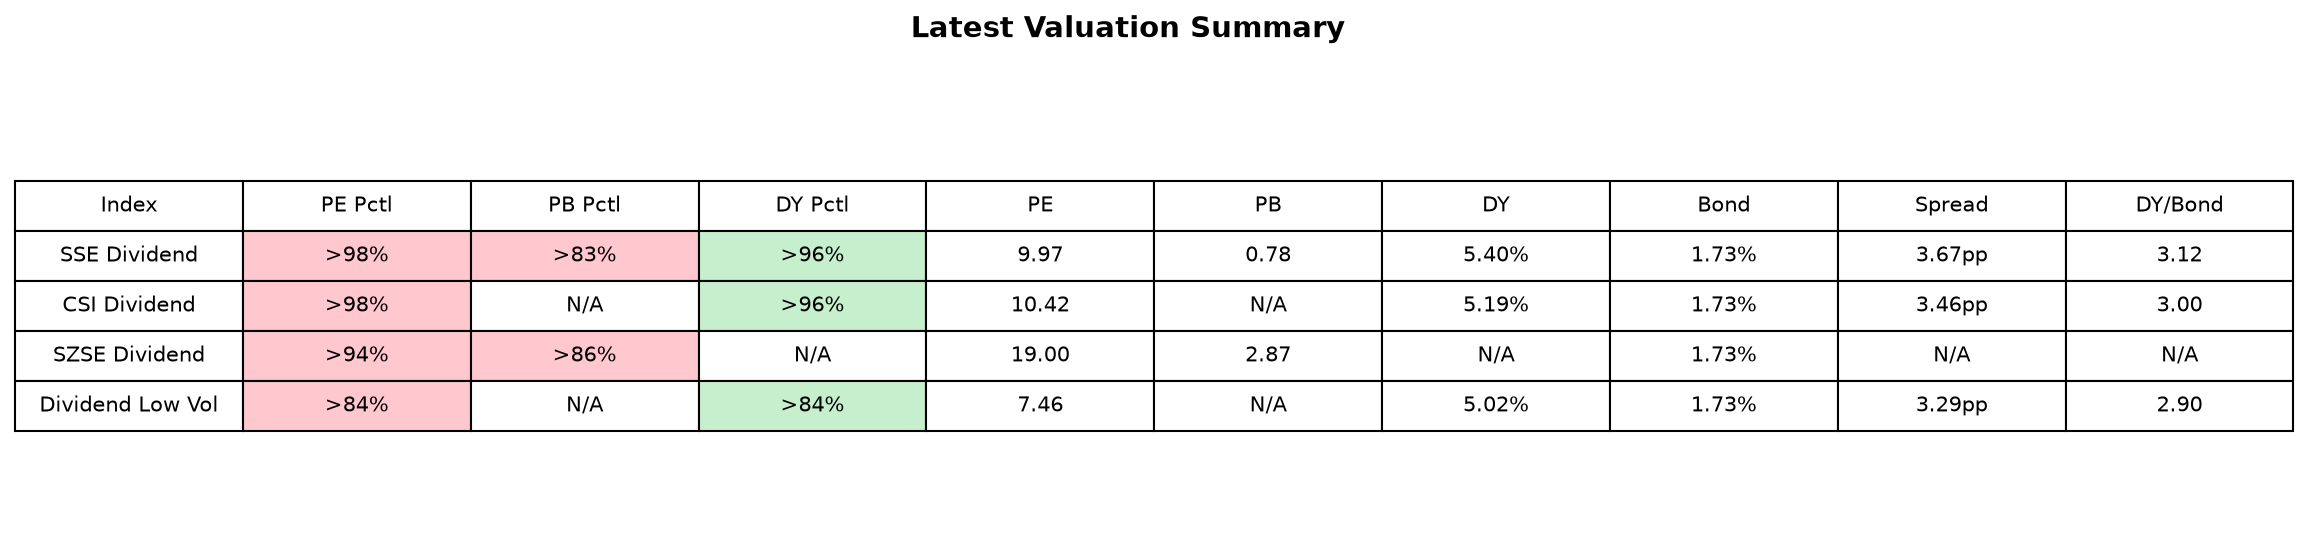
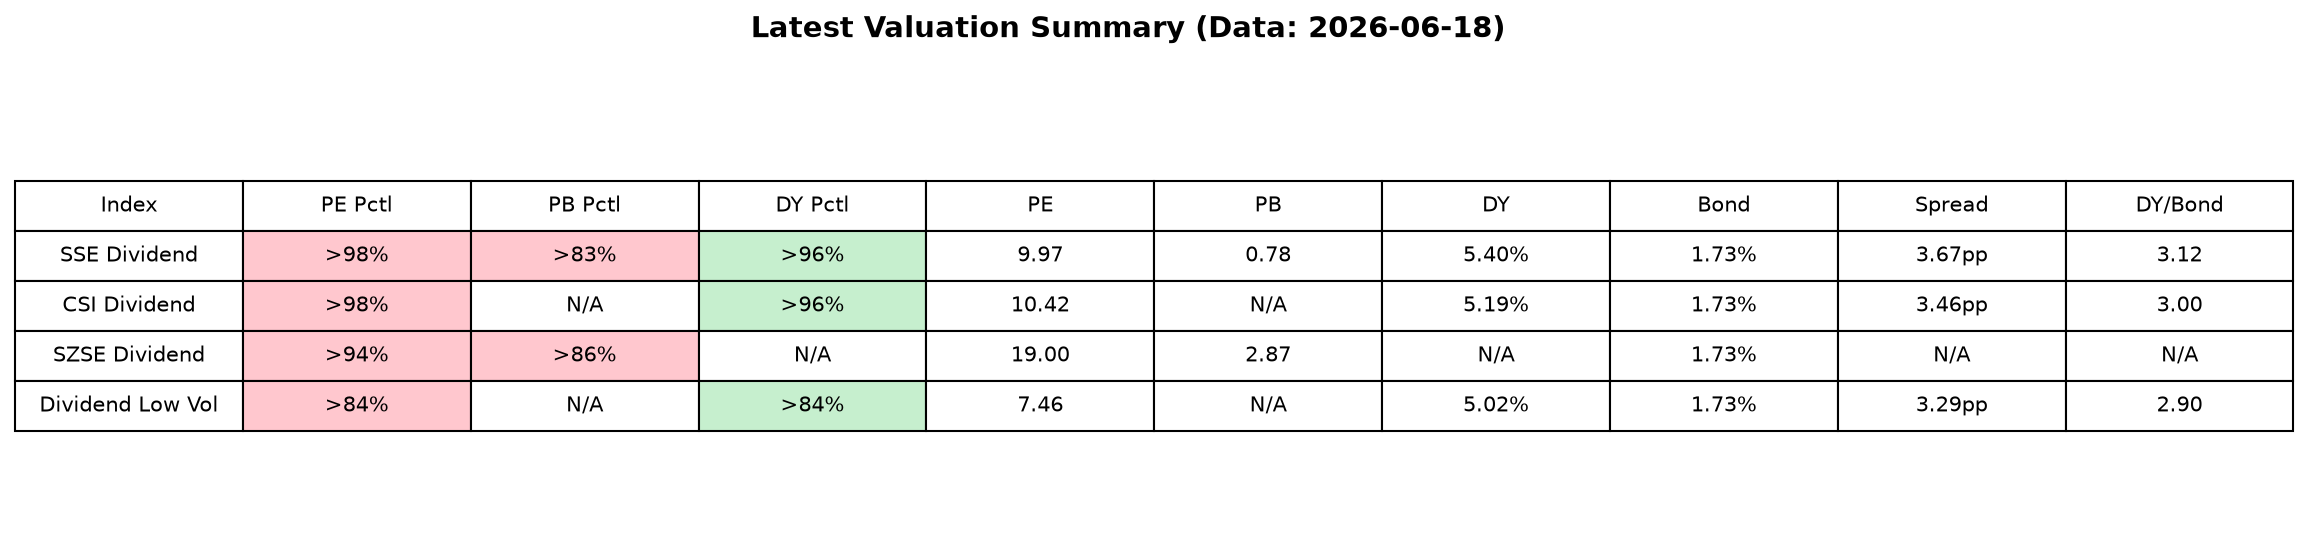
feat(chart): add data date to valuation summary title

Changed region(s): [[0.312, 0.0308, 0.6551, 0.0924]]

diff --git a/scripts/update_data.py b/scripts/update_data.py
@@ -668,9 +668,16 @@ def generate_charts(df):
 
     if latest_data:
         latest_df = pd.DataFrame(latest_data)
+        # Get the latest date across all indices (use the max date from df)
+        max_date = df['date'].max()
+        if hasattr(max_date, 'strftime'):
+            date_str = max_date.strftime('%Y-%m-%d')
+        else:
+            date_str = str(max_date)
+        
         fig, ax = plt.subplots(figsize=(14, 4))
         ax.axis('off')
-        fig.suptitle('Latest Valuation Summary', fontsize=14, fontweight='bold', y=0.98)
+        fig.suptitle(f'Latest Valuation Summary (Data: {date_str})', fontsize=14, fontweight='bold', y=0.98)
         table = ax.table(cellText=latest_df.values, colLabels=latest_df.columns,
                         cellLoc='center', loc='center')
         table.auto_set_font_size(False)